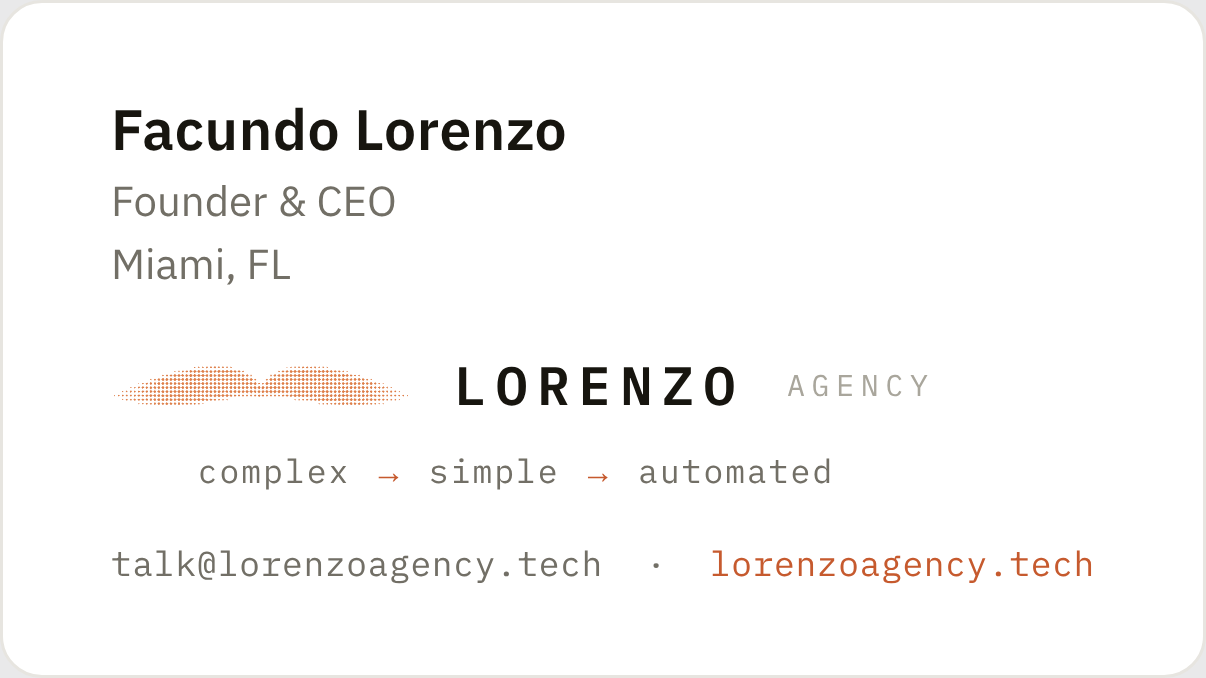
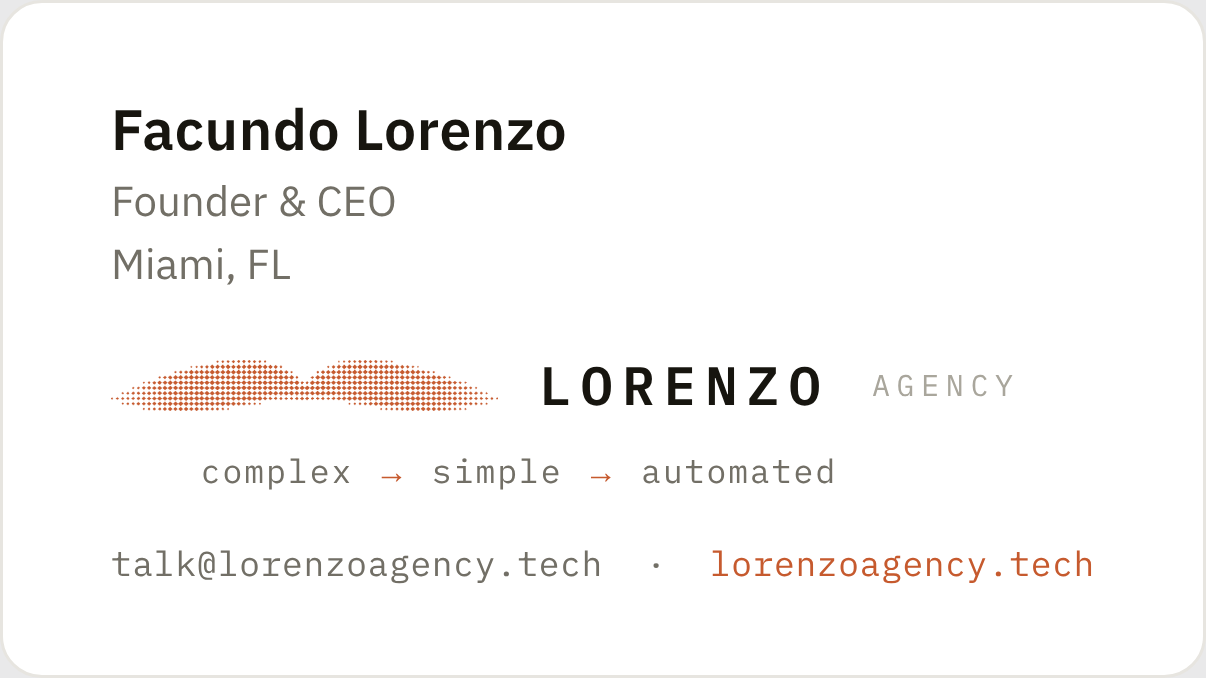
Firma: tarjeta con bigote naranja nuevo + firma.html pasa a imagen hospedada
Claude-Session: https://claude.ai/code/session_01U7kfNi5s8RC2fTdYJMP7Qk

diff --git a/email/firma.html b/email/firma.html
@@ -1,19 +1,2 @@
-<!-- Firma de email LORENZO Agency — pegar en Private Email → Configuración → Firma (modo código / < >) -->
-<table cellpadding="0" cellspacing="0" border="0" style="border-collapse:collapse;font-family:Helvetica,Arial,sans-serif">
-  <tr><td style="padding:0 0 2px 0;font-size:15px;font-weight:700;color:#111111;letter-spacing:.2px">Facundo Lorenzo</td></tr>
-  <tr><td style="padding:0 0 1px 0;font-size:13px;color:#666666">Founder &amp; CEO</td></tr>
-  <tr><td style="padding:0 0 12px 0;font-size:13px;color:#666666">Miami, FL</td></tr>
-  <tr><td style="padding:0 0 8px 0">
-    <img src="https://lorenzoagency.tech/email/firma-bigote.png" width="78" height="15" alt="LORENZO" style="display:inline-block;vertical-align:middle;border:0">
-    &nbsp;&nbsp;<span style="font-family:'Courier New',monospace;font-size:15px;font-weight:700;letter-spacing:4px;color:#111111;vertical-align:middle">LORENZO</span>
-    <span style="font-family:'Courier New',monospace;font-size:11px;letter-spacing:3px;color:#999999;vertical-align:middle">&nbsp;AGENCY</span>
-  </td></tr>
-  <tr><td style="padding:0 0 10px 0;font-family:'Courier New',monospace;font-size:11px;letter-spacing:1px;color:#888888;text-align:center">
-    complex <span style="color:#DD7D47">&#8594;</span> simple <span style="color:#DD7D47">&#8594;</span> automated
-  </td></tr>
-  <tr><td style="font-size:12px;color:#777777">
-    <a href="mailto:talk@lorenzoagency.tech" style="color:#777777;text-decoration:none">talk@lorenzoagency.tech</a>
-    &nbsp;&nbsp;·&nbsp;&nbsp;
-    <a href="https://lorenzoagency.tech" style="color:#DD7D47;text-decoration:none">lorenzoagency.tech</a>
-  </td></tr>
-</table>
+<!-- Firma LORENZO Agency (tarjeta imagen) — pegar en Private Email → Firma, modo código < > -->
+<img src="https://lorenzoagency.tech/email/firma-tarjeta.png" width="420" alt="LORENZO Agency — Facundo Lorenzo" style="display:block;border:0;max-width:100%">
